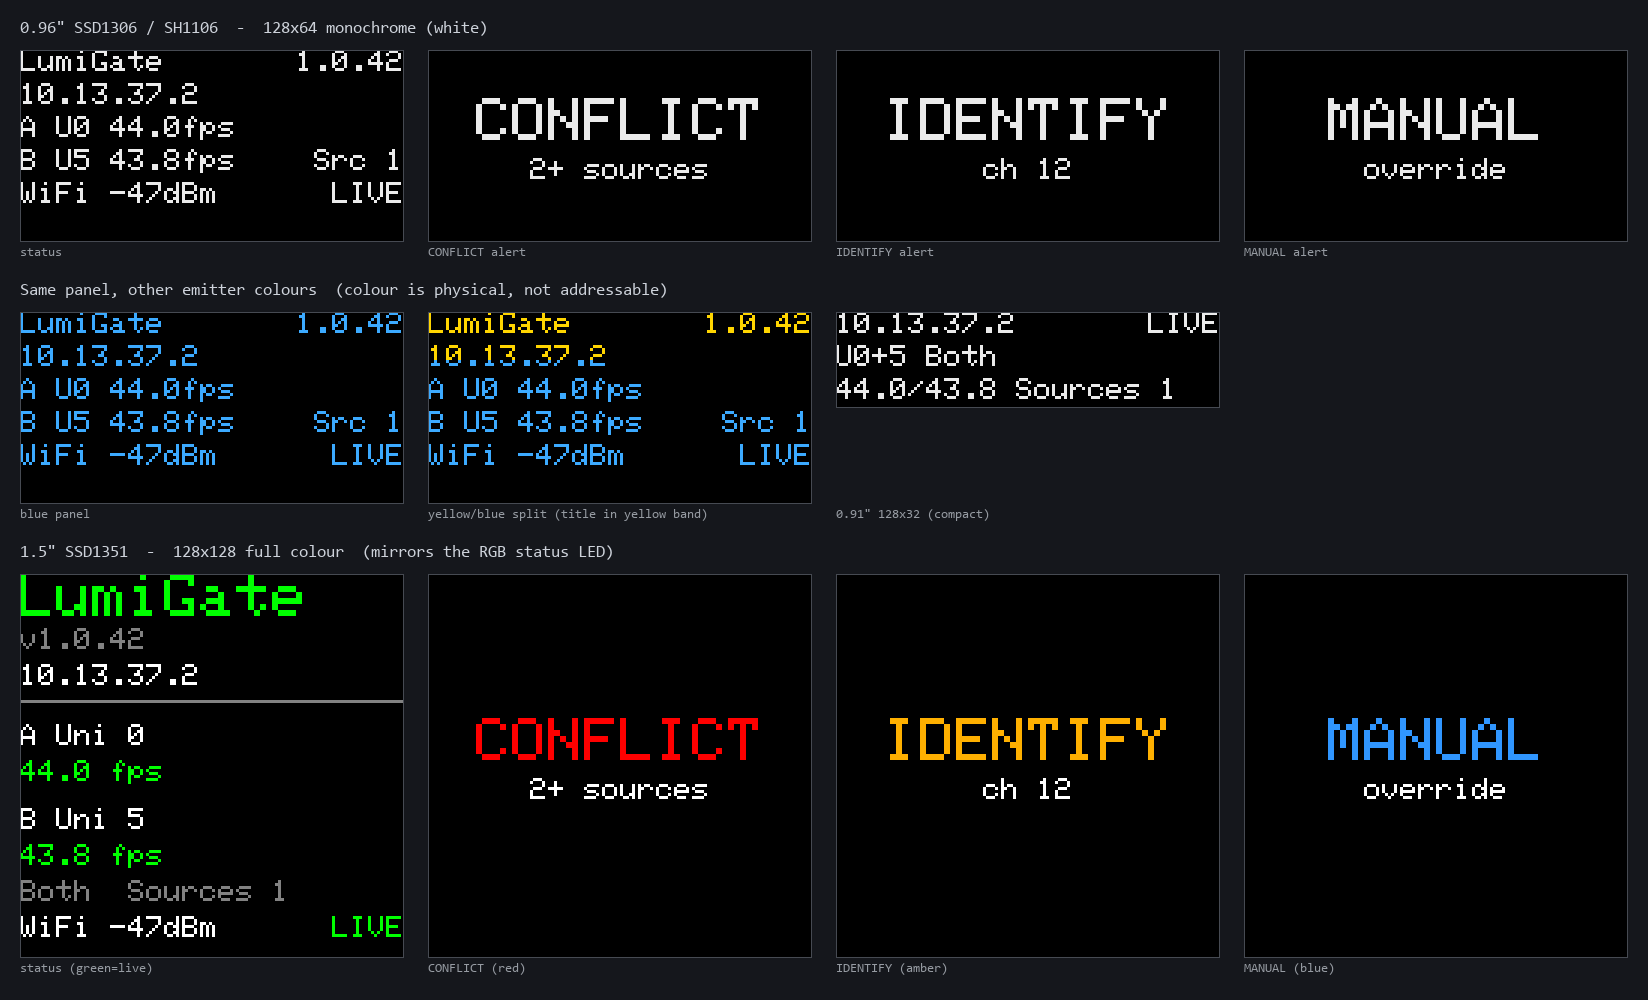
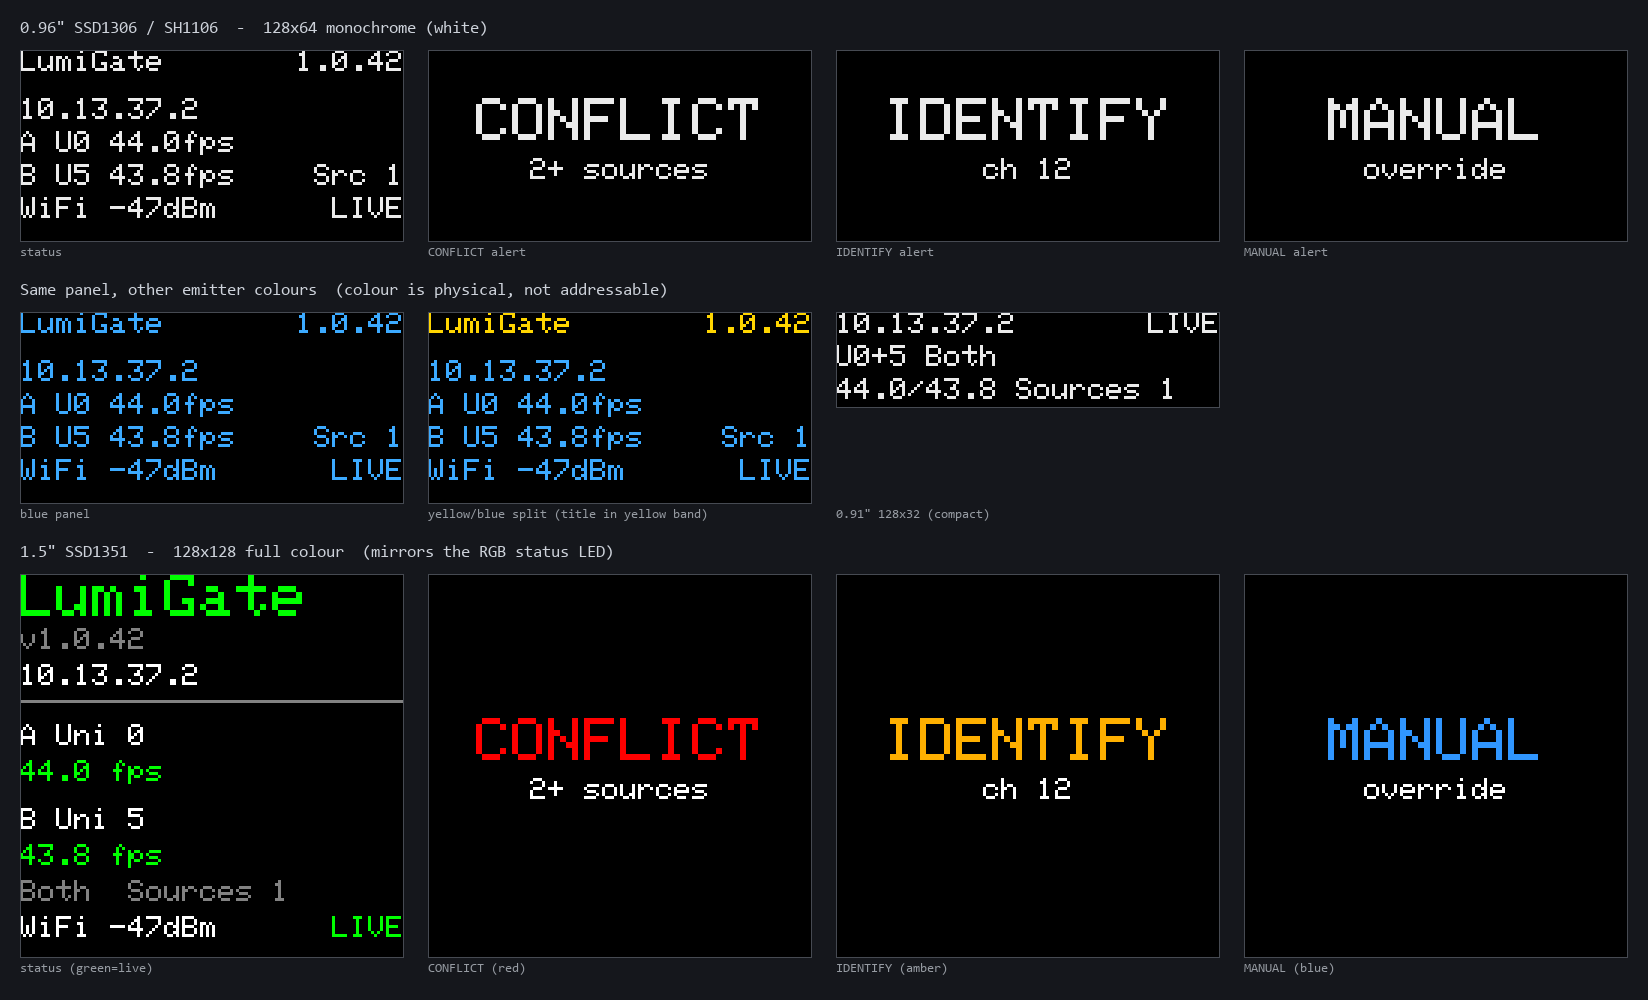
docs(display): regenerate preview to match the dual-colour seam fix (#16)
Mirror the firmware: title alone in the yellow band (y=0), body block (IP first) starts at the row-16 seam so no line is sliced across the colour boundary.

diff --git a/docs/make_display_preview.py b/docs/make_display_preview.py
@@ -192,7 +192,10 @@ def draw_status(p):
     y = 0
     p.set_text_color(accent); p.set_cursor(0, y); p.print("LumiGate")
     p.set_text_color(GREY); p.set_cursor(W - len(VERSION) * 6, y); p.print(VERSION)
-    y += rp
+    # Dual-colour 128x64 OLEDs are yellow rows 0-15 + a ~2px gap + blue rows 16-63.
+    # Keep the title alone in the yellow band and start the body at the seam, so no
+    # line (especially the IP) is sliced across the colour boundary (issue #16).
+    y = 16
     p.set_text_color(WHITE); p.set_cursor(0, y); p.print(IP)
     y += rp
     if dual: